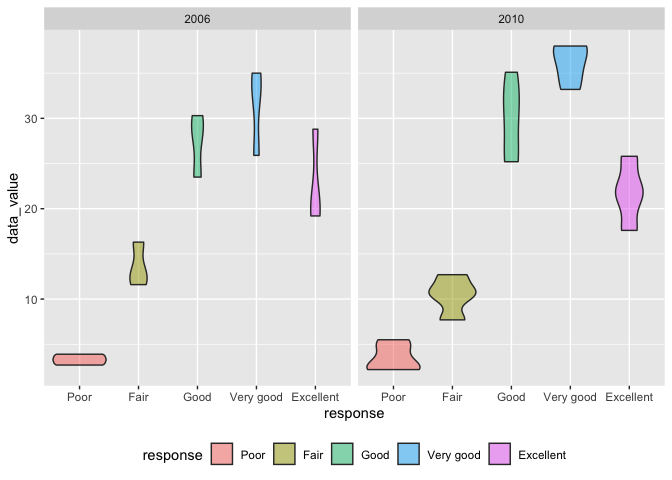
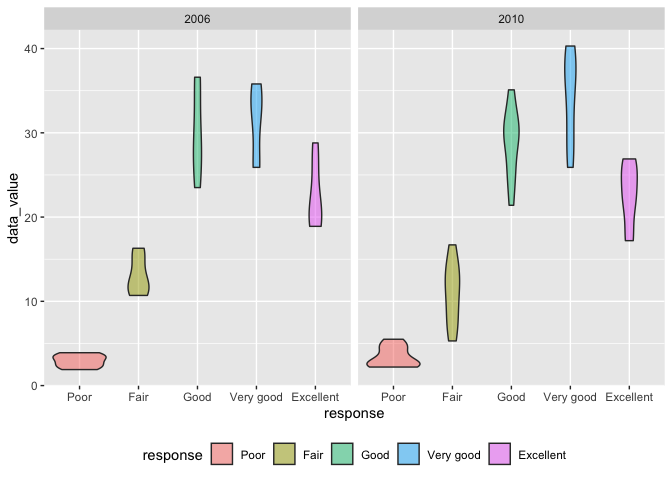
clean up message

diff --git a/p8105_hw3_hw2851.md b/p8105_hw3_hw2851.md
@@ -53,29 +53,18 @@ instacart %>%
 |-----------:|-------------:|----------------------:|-----------:|-------------:|
 |     131209 |        39123 |              8.758044 |        134 |           21 |
 
--   How many aisles are there, and which aisles are the most items
-    ordered from? There are 134 aisles. The aisles which the most orders
-    are:
+How many aisles are there, and which aisles are the most items ordered
+from?
+
+There are 134 aisles. The aisles which the most orders are:
 
 ``` r
-instacart %>%
+instacart_top_10_aisle = instacart %>%
   count(aisle, name='n_orders') %>%
-  arrange(desc(n_orders)) %>%
   filter(min_rank(desc(n_orders)) < 10) %>%
+  arrange(desc(n_orders)) %>%
   knitr::kable()
 ```
-
-| aisle                         | n_orders |
-|:------------------------------|---------:|
-| fresh vegetables              |   150609 |
-| fresh fruits                  |   150473 |
-| packaged vegetables fruits    |    78493 |
-| yogurt                        |    55240 |
-| packaged cheese               |    41699 |
-| water seltzer sparkling water |    36617 |
-| milk                          |    32644 |
-| chips pretzels                |    31269 |
-| soy lactosefree               |    26240 |
 
 ``` r
 instacart_popular_aisles =
@@ -125,22 +114,17 @@ instacart %>%
 
 ``` r
 instacart %>%
-  filter(product_name == c("Pink Lady Apples", "Coffee Ice Cream")) %>%
+  filter(product_name %in% c("Pink Lady Apples", "Coffee Ice Cream")) %>%
   group_by(product_name, order_dow) %>%
   summarize(mean_order_hour_of_day = mean(order_hour_of_day, digit=2)) %>%
   pivot_wider(names_from=order_dow, values_from=mean_order_hour_of_day) %>%
   knitr::kable(digits = 1)
 ```
 
-    ## Warning in product_name == c("Pink Lady Apples", "Coffee Ice Cream"): longer
-    ## object length is not a multiple of shorter object length
-
-    ## `summarise()` has grouped output by 'product_name'. You can override using the `.groups` argument.
-
 | product_name     |    0 |    1 |    2 |    3 |    4 |    5 |    6 |
 |:-----------------|-----:|-----:|-----:|-----:|-----:|-----:|-----:|
-| Coffee Ice Cream | 13.2 | 15.0 | 15.3 | 15.4 | 15.2 | 10.3 | 12.4 |
-| Pink Lady Apples | 12.2 | 11.7 | 12.0 | 13.9 | 11.9 | 13.9 | 11.6 |
+| Coffee Ice Cream | 13.8 | 14.3 | 15.4 | 15.3 | 15.2 | 12.3 | 13.8 |
+| Pink Lady Apples | 13.4 | 11.4 | 11.7 | 14.2 | 11.6 | 12.8 | 11.9 |
 
 ## Problem 2
 
@@ -201,16 +185,6 @@ observed2010=
 In 2010, there are 14 states that observed at 7 more locations including
 CA, CO, FL, MA, MD, NC, NE, NJ, NY, OH, PA, SC, TX, WA
 
-``` r
-brfss_smart2010_clean %>%
-  filter(response=="Excellent") %>%
-  select(year, locationabbr, data_value) %>%
-  group_by(year, locationabbr) %>%
-  summarize(mean_data_value = mean(data_value)) %>%
-  ggplot(aes(x = year, y = mean_data_value, color = locationabbr)) +
-    geom_line()
-```
-
     ## `summarise()` has grouped output by 'year'. You can override using the `.groups` argument.
 
     ## Warning: Removed 3 row(s) containing missing values (geom_path).
@@ -219,39 +193,26 @@ brfss_smart2010_clean %>%
 
 ``` r
 brfss_smart2010_clean %>%
-  filter(locationabbr == "NY", year == c(2006, 2010)) %>%
+  filter(locationabbr == "NY", year %in% c(2006, 2010)) %>%
   ggplot(aes(x = response, y = data_value)) +
   geom_violin(aes(fill = response), alpha = .5) +
   facet_grid(~year) +
   theme(legend.position = "bottom")
 ```
 
-    ## Warning in year == c(2006, 2010): longer object length is not a multiple of
-    ## shorter object length
-
 ![](p8105_hw3_hw2851_files/figure-gfm/unnamed-chunk-12-1.png)<!-- -->
 
 ## Problem 3
 
 ``` r
-accel_data = read_csv('./data/accel_data.csv') %>%
-  mutate(is_weekend = (day == c("Saturday", "Sunday"))) %>%
+accel_data = read_csv('./data/accel_data.csv')%>%
+  mutate(is_weekend = (day %in% c("Saturday", "Sunday"))) %>%
   pivot_longer(activity.1:activity.1440, names_to = "minute_of_day", names_prefix = "activity.", values_to = "activity_count")
 ```
 
-    ## Rows: 35 Columns: 1443
-
-    ## ── Column specification ────────────────────────────────────────────────────────
-    ## Delimiter: ","
-    ## chr    (1): day
-    ## dbl (1442): week, day_id, activity.1, activity.2, activity.3, activity.4, ac...
-
-    ## 
-    ## ℹ Use `spec()` to retrieve the full column specification for this data.
-    ## ℹ Specify the column types or set `show_col_types = FALSE` to quiet this message.
-
-    ## Warning in day == c("Saturday", "Sunday"): longer object length is not a
-    ## multiple of shorter object length
+There are 6 variables exist,including`colnames(accel_data)`, and
+total50400 observations. Here is the first observation of the dataset:
+1, 1, Friday, FALSE, 1, 88.3777778.
 
 ``` r
 accel_data %>%
@@ -298,6 +259,11 @@ accel_data %>%
 |     34 |      367824.00 |
 |     35 |      445366.00 |
 
+There is no any trends apparent was observed in this table. The
+activities looks stable from the begining to the end.There are two
+outlier in this dataset, they are data from day24 and day31. It should
+be excluded during analysis.
+
 ``` r
 accel_data %>%
   group_by(day_id, day) %>%
@@ -307,6 +273,10 @@ accel_data %>%
   geom_line(alpha = .5)
 ```
 
-    ## `summarise()` has grouped output by 'day_id'. You can override using the `.groups` argument.
-
 ![](p8105_hw3_hw2851_files/figure-gfm/unnamed-chunk-15-1.png)<!-- -->
+
+This person’s activities shows weekly periodic, for example, the total
+activities on every Tuesday approximately the same.This phenomenon is
+more obvious during weekday. The total activities on weekends fluctuate
+more,like the first Saturday is 631k, and the second Saturday drops to
+422k.
